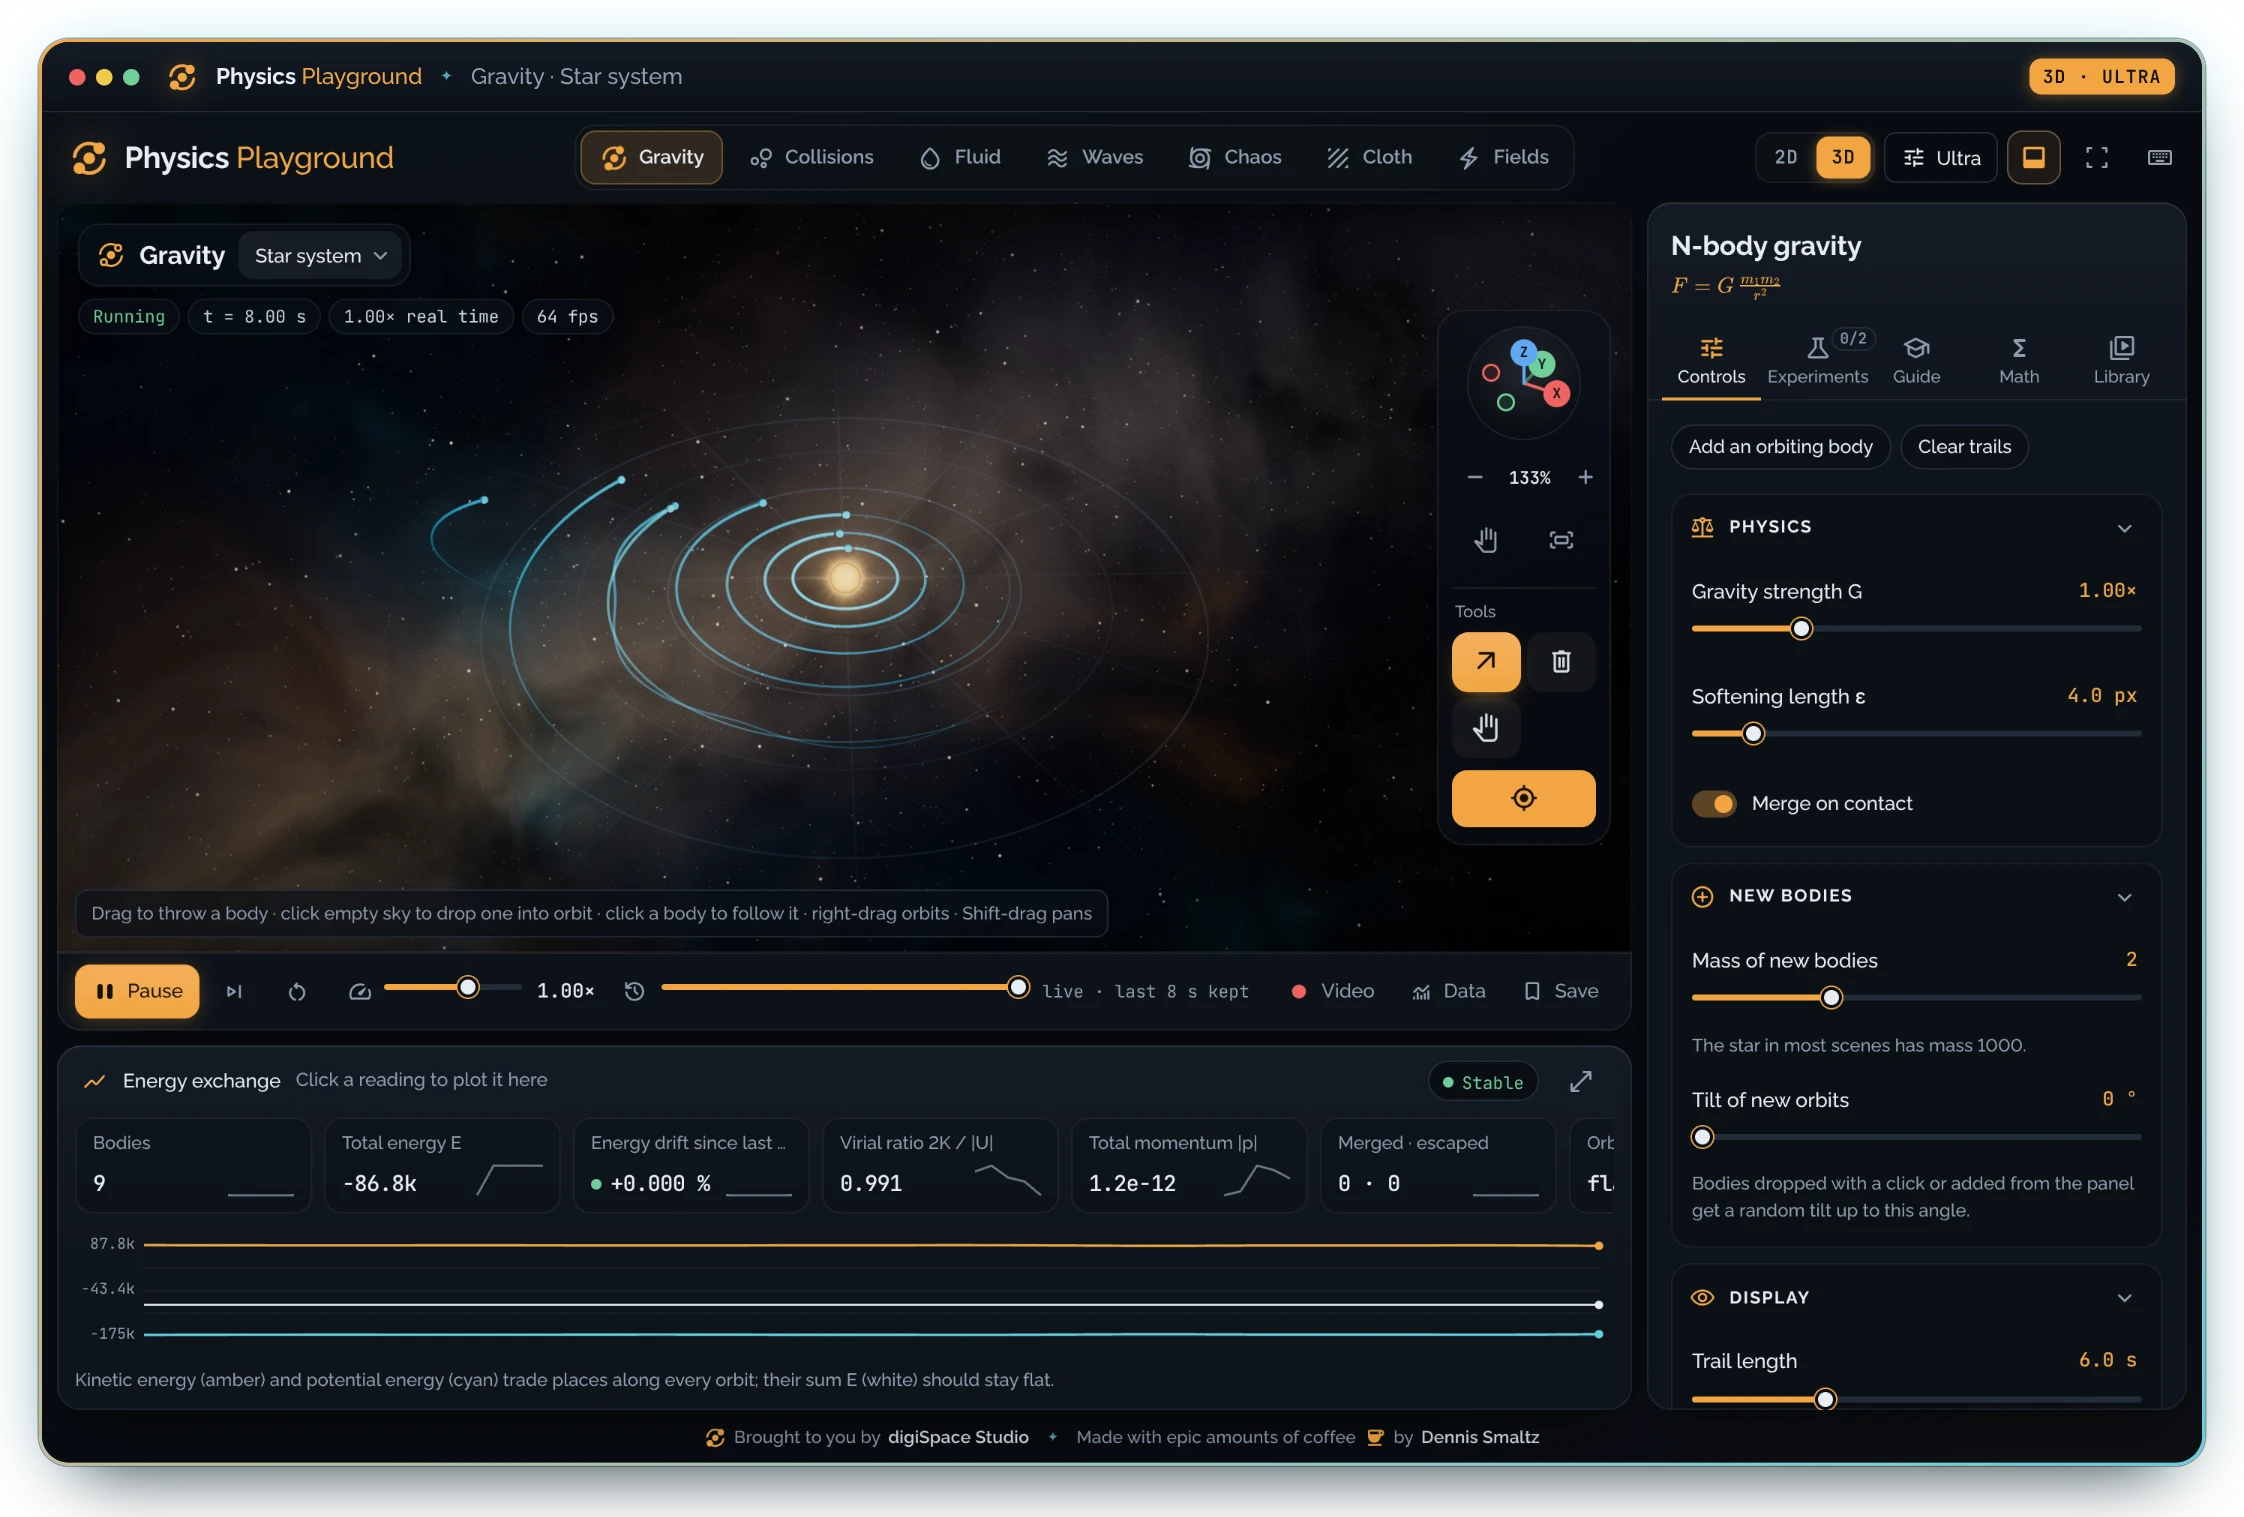
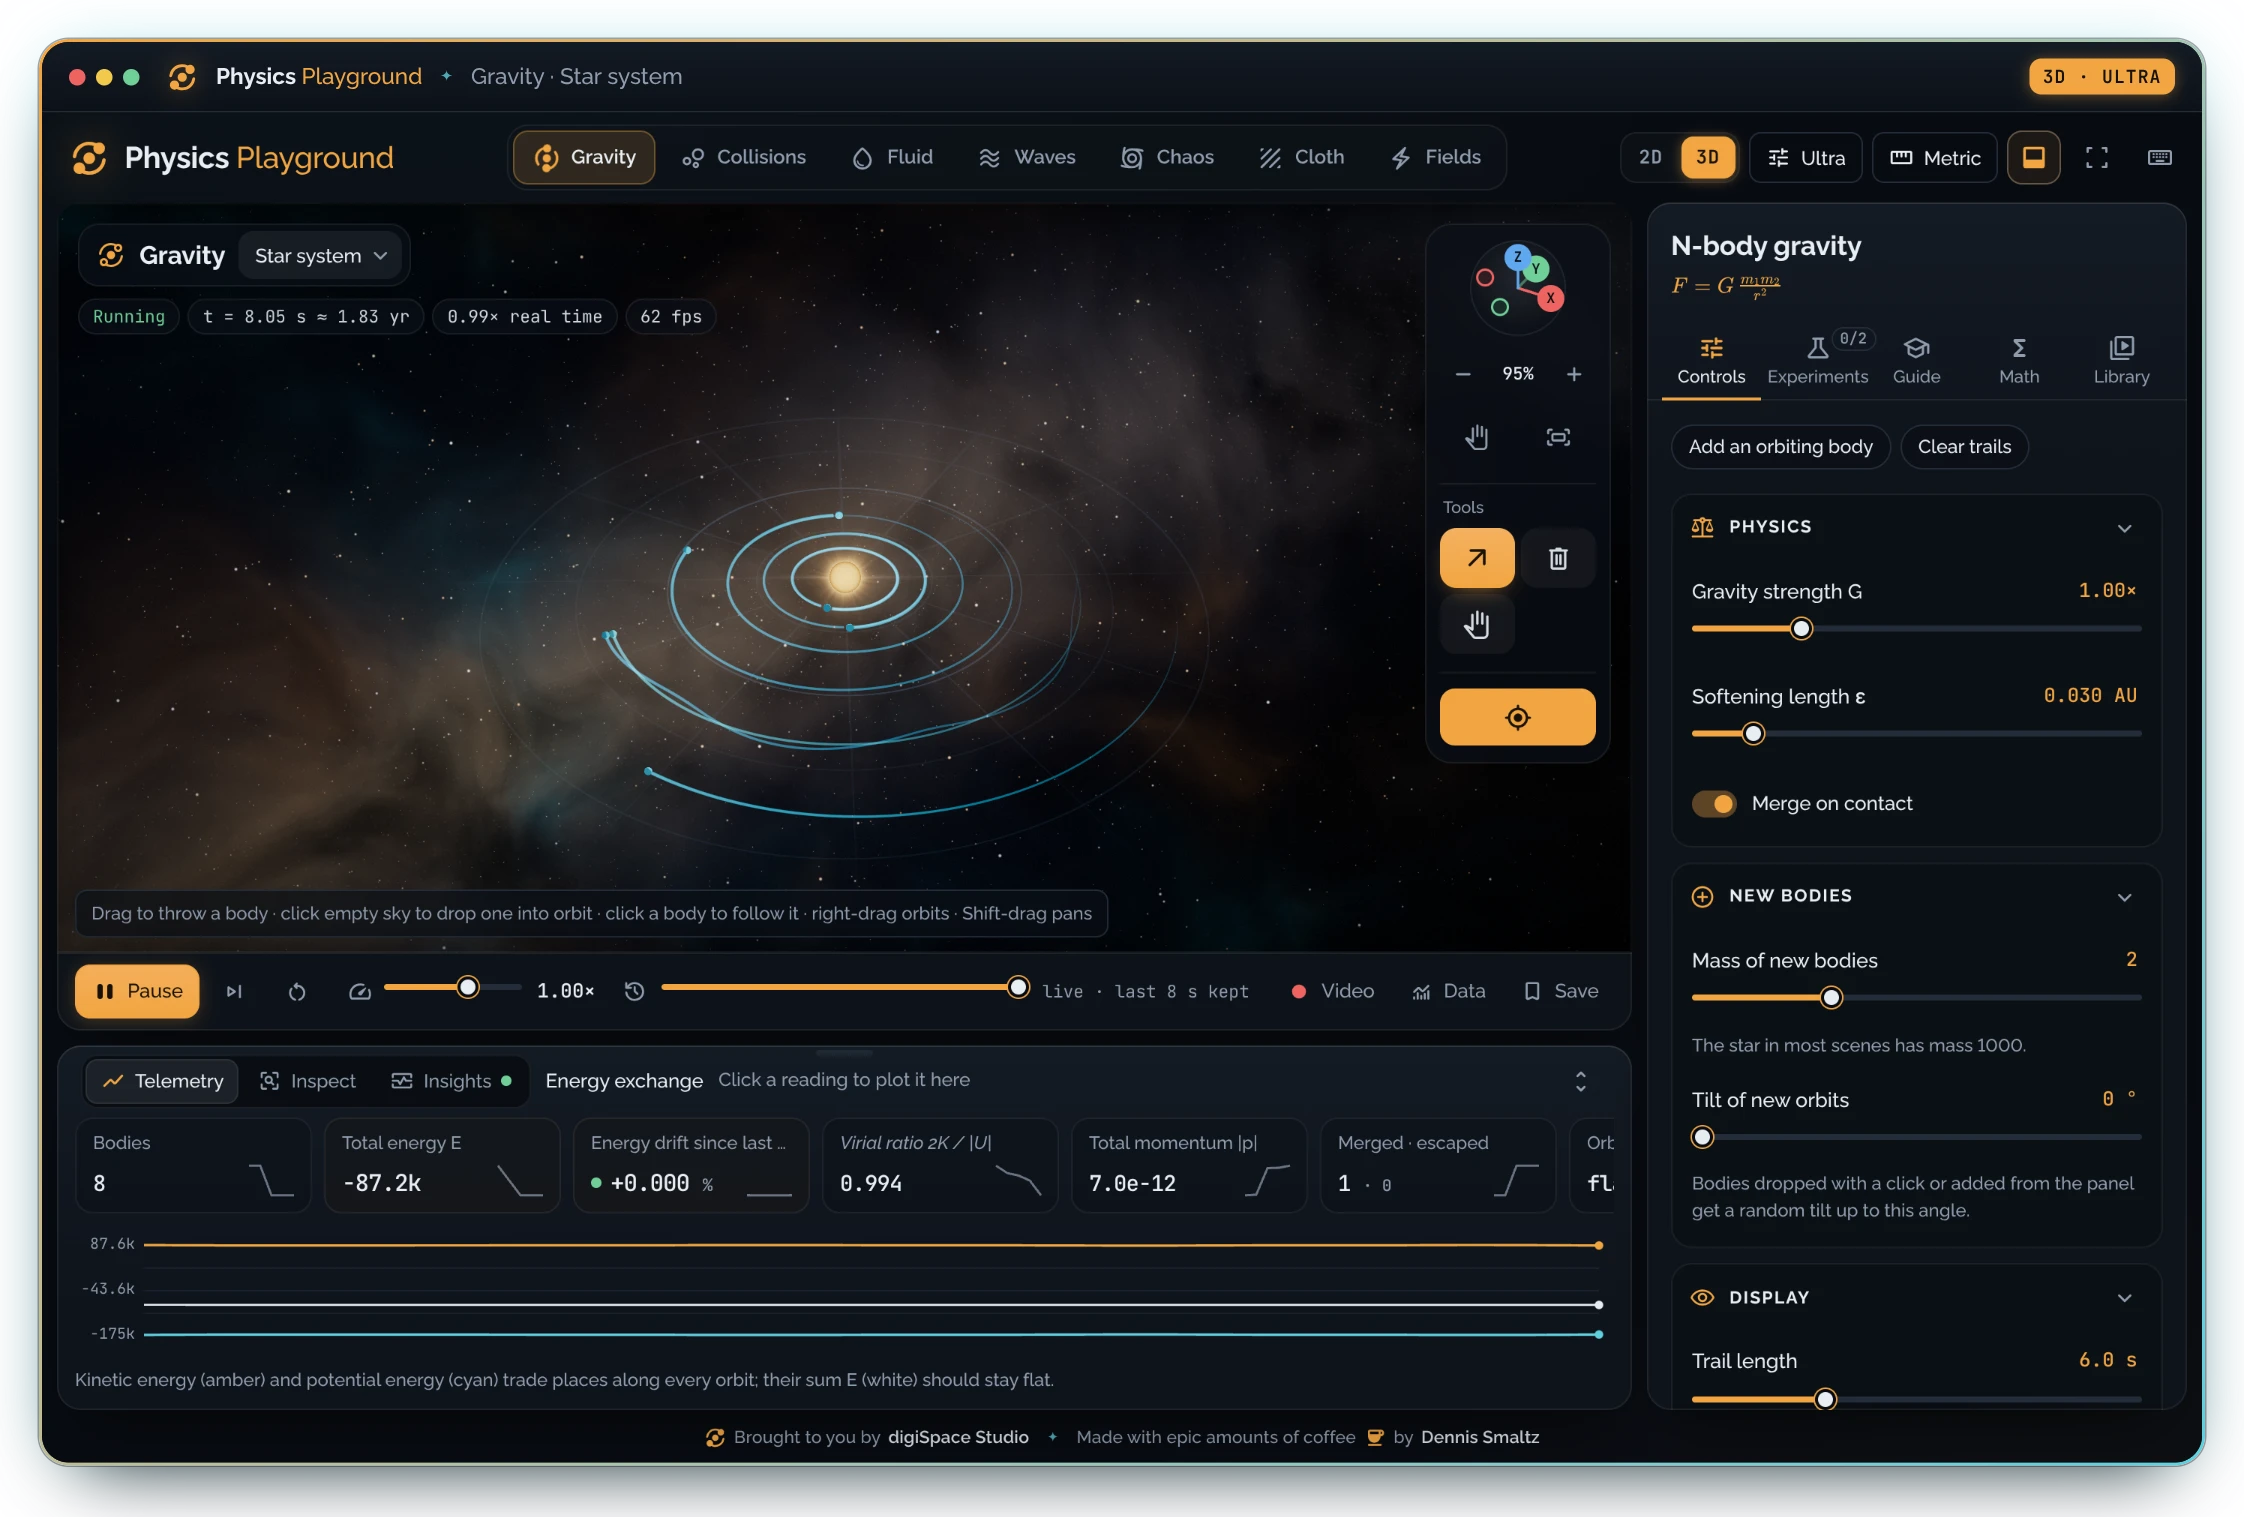
Recapture the README hero from 2.4.0
The hero now shows the anchored stage rail, the deck's pane tabs, the
Units button and Gravity's clock in years. The manifest describes the
2.4.0 set, and the capture names Chaos's Both view; the six gallery
pictures and the 2D and 3D pair are still being captured and follow in
the next commit.

Claude-Session: https://claude.ai/code/session_0127U9NVEHKPsjD4bB32NyRk

diff --git a/tools/media.py b/tools/media.py
@@ -124,7 +124,7 @@ LABS = [
     ('collisions', 'Collisions', 'pool', 'Billiard break', 'bubble_chart', 1.6, None),
     ('fluid', 'Fluid', 'dam', 'Dam break', 'water_drop', 1.4, None),
     ('waves', 'Waves', 'double', 'Double slit', 'airwave', 6.0, None),
-    ('chaos', 'Chaos', 'chaos', 'Sensitive start · Phase space', 'cyclone', 9.0, CHAOS_SETUP),
+    ('chaos', 'Chaos', 'chaos', 'Sensitive start · Pendulum and phase map', 'cyclone', 9.0, CHAOS_SETUP),
     ('cloth', 'Cloth', 'flag', 'Flag in wind', 'texture', 4.0, None),
     ('fields', 'Fields', 'cyclotron', 'Cyclotron motion', 'electric_bolt', 3.0, None),
 ]

diff --git a/docs/media/MANIFEST.md b/docs/media/MANIFEST.md
@@ -1,10 +1,10 @@
 <!--
 ✒ Metadata
-    - Title: README Media Manifest (digiSpace Edition - v2.3)
+    - Title: README Media Manifest (digiSpace Edition - v2.4)
     - File Name: MANIFEST.md
     - Relative Path: docs/media/MANIFEST.md
     - Artifact Type: docs
-    - Version: 2.3.1
+    - Version: 2.4.0
     - Date: 11/10/2026
     - Update: Tuesday, November 10, 2026
     - Author: Dennis 'dendogg' Smaltz
@@ -12,6 +12,10 @@
     - Signature: ︻デ═─── ✦ ✦ ✦ | Aim Twice, Shoot Once!
 
 ✒ Changelog:
+    - 2.4.0 (11/10/2026) [dendogg + Anthropic - Claude Opus 5.5] — The hero,
+      gallery and 2D and 3D pair are recaptured from release 2.4.0, showing
+      the anchored stage rail, the deck's panes and metric units; Chaos is
+      shown in its Both view.
     - 2.3.1 (11/10/2026) [dendogg + Anthropic - Claude Opus 5.5] — The set is
       captured, on Dennis's call to do it in the cloud session: added each
       picture's size and a record of the run in place of the note that said
@@ -70,20 +74,21 @@ python tools/media.py --headed
 change to that lab's scene. Commit the WebP files with
 the change that made them necessary.
 
-The set here was captured from release 2.3.0 on 11/10/2026, headless in
-software WebGL on four CPU cores. Each 3D page took four to eight minutes,
-the whole set about forty-five.
+The hero, the gallery and the 2D and 3D pair were captured from release
+2.4.0 on 11/10/2026, headless in software WebGL on four CPU cores, in
+metric units; each 3D page took four to eight minutes. The banner shows no
+interface, so it stands from release 2.3.0.
 
 ## The pictures
 
 | File | Size (px) | Shows | Used in |
 | --- | --- | --- | --- |
 | `banner.webp` | 2560 × 800 | The title, tagline and the seven labs over a live 3D render of Gravity's star system | README title |
-| `hero-workspace.webp` | 2244 × 1517 | The whole workspace in 3D at the Ultra tier: Gravity's star system after 7 simulated seconds, with the instruments, the sectioned Controls page and the colophon | README, under the badges |
+| `hero-workspace.webp` | 2244 × 1517 | The whole workspace in 3D at the Ultra tier: Gravity's star system after 7 simulated seconds (about a year and a half), with the stage rail, the instruments deck on Telemetry, the sectioned Controls page and the colophon | README, under the badges |
 | `lab-collisions.webp` | 1106 × 610 | Collisions, Billiard break, 1.6 s in | Lab gallery |
 | `lab-fluid.webp` | 1106 × 610 | Fluid, Dam break, 1.4 s in | Lab gallery |
 | `lab-waves.webp` | 1106 × 610 | Waves, Double slit, 6 s in | Lab gallery |
-| `lab-chaos.webp` | 1106 × 610 | Chaos, Sensitive start in the phase view, 9 s in, with a start previewed on the map | Lab gallery |
+| `lab-chaos.webp` | 1106 × 610 | Chaos, Sensitive start in the Both view (the pendulum beside its phase map), 9 s in, with a start previewed on the map | Lab gallery |
 | `lab-cloth.webp` | 1106 × 610 | Cloth, Flag in wind, 4 s in | Lab gallery |
 | `lab-fields.webp` | 1106 × 610 | Fields, Cyclotron motion, 3 s in | Lab gallery |
 | `modes-2d-3d.webp` | 1472 × 420 | Waves, Double slit, 6 s in and paused, in 2D and then in 3D at the same moment | "Two modes: 2D and 3D" |

diff --git a/README.md b/README.md
@@ -84,8 +84,9 @@ Exact in 2D, rendered as real apparatus in 3D, and nothing to build.
 </div>
 
 ![The Physics Playground workspace in 3D: the Gravity lab's star system on
-the stage, the player bar beneath it, the instruments deck with live
-readings, and the inspector with the lab's controls](docs/media/hero-workspace.webp)
+the stage with the stage rail at its top right, the player bar beneath it,
+the instruments deck with live readings, and the inspector with the lab's
+controls](docs/media/hero-workspace.webp)
 
 Physics Playground is an interactive physics laboratory in the browser.
 Seven live simulations share one workspace, one capture system and one set
